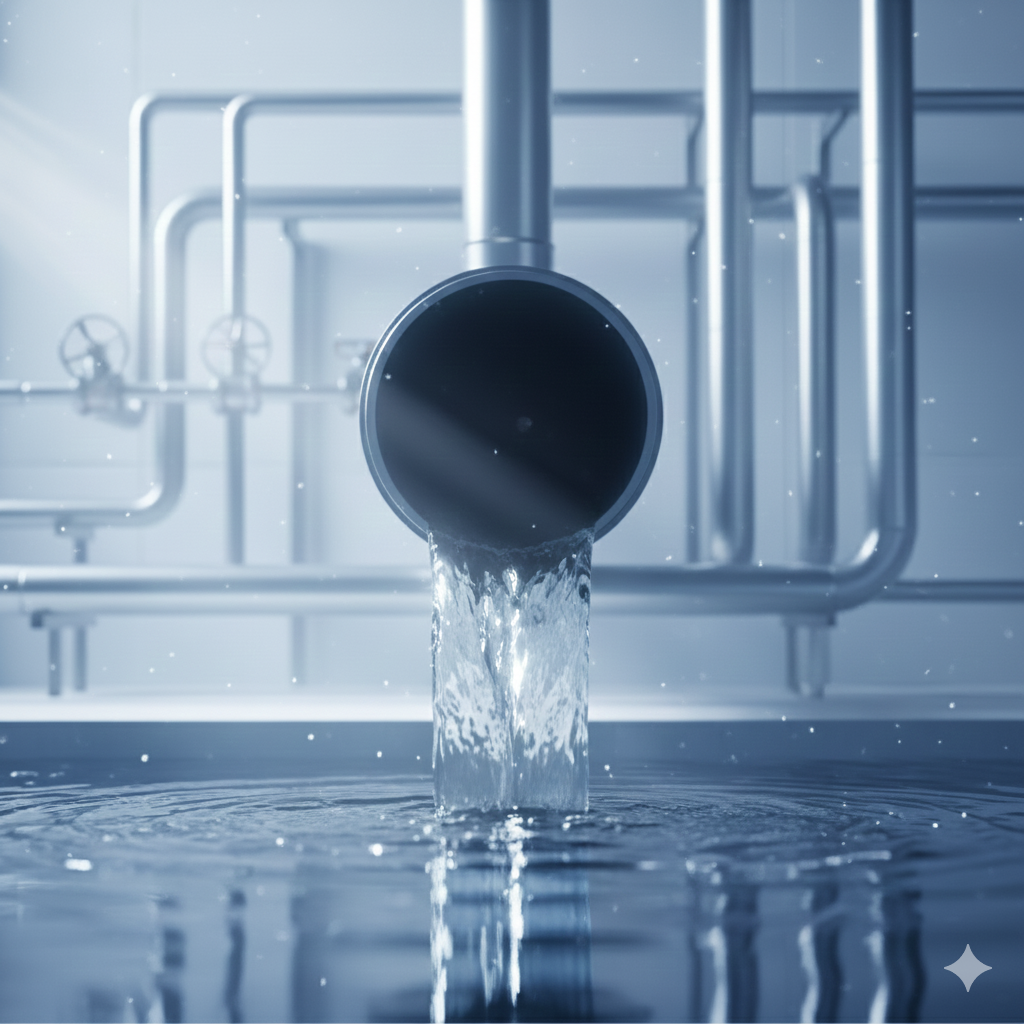
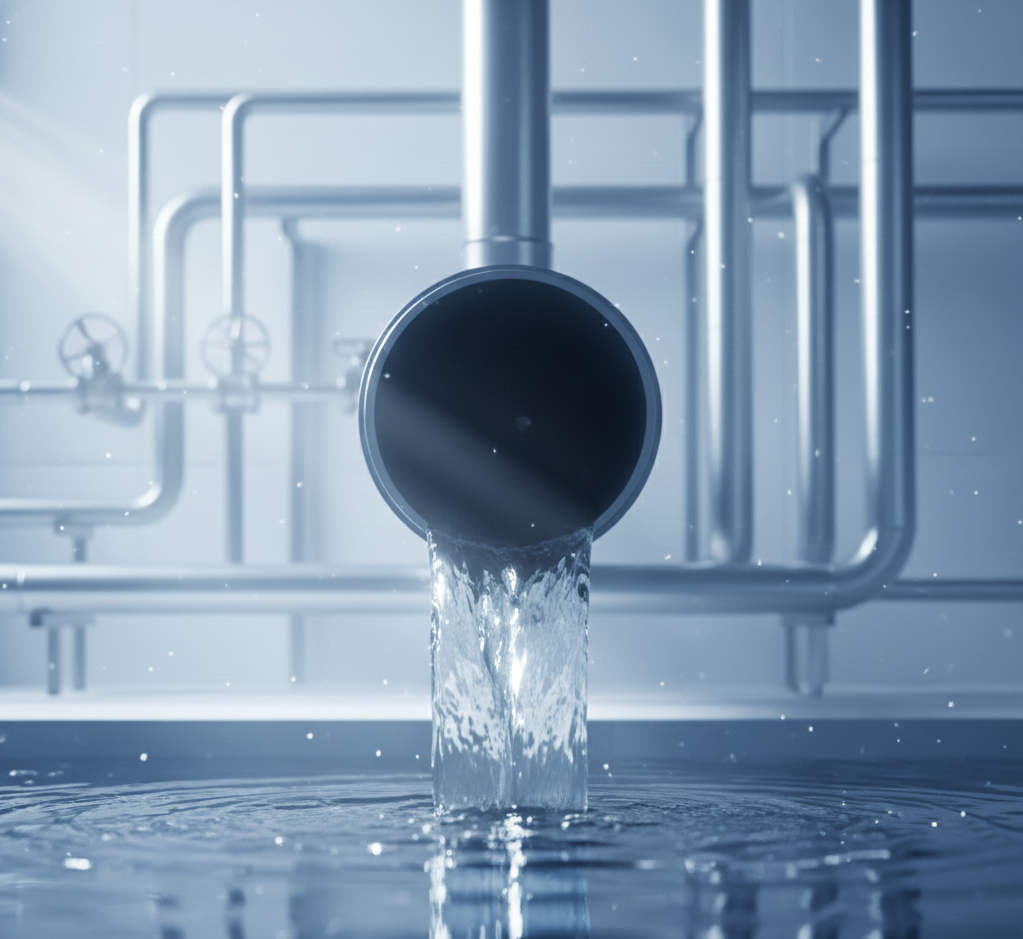
feat: webp for hero image

diff --git a/components/Hero.tsx b/components/Hero.tsx
@@ -6,7 +6,7 @@ export default function Hero() {
     <section 
       className="relative py-12 sm:py-16 md:py-24 lg:py-32 bg-cover bg-center bg-no-repeat"
       style={{
-        backgroundImage: 'url(/hero_background.png)'
+        backgroundImage: 'url(/hero_background.webp)'
       }}
     >
       <div className="absolute inset-0 bg-black/40"></div>
